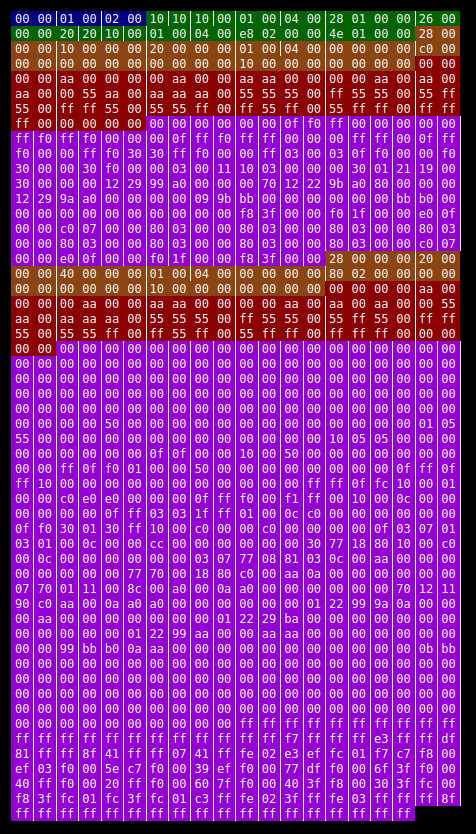
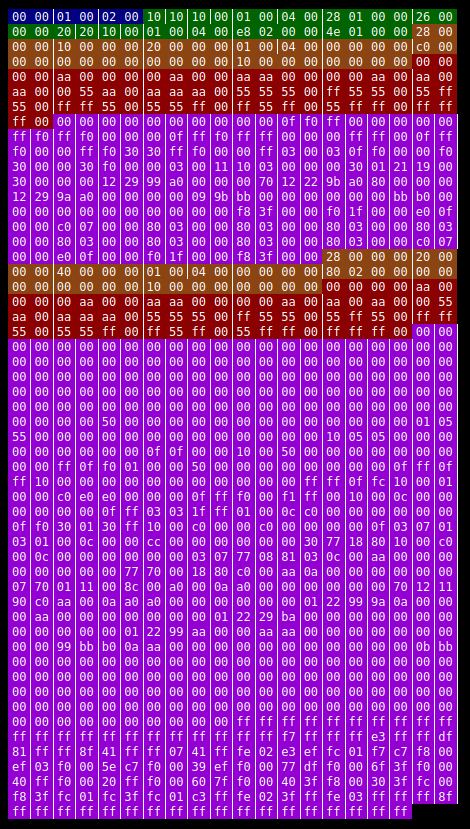
Fixed how repeats are calculated.

diff --git a/vbincarver.py b/vbincarver.py
@@ -127,7 +127,7 @@ class FileParser( object ):
             span['count_field'] in self.stored_offsets:
                 if self.stored_offsets[span['count_field']][-1] + \
                 span['count_mod'] > \
-                span['counts_written']:
+                span['counts_written'] + 1:
                     # If this is an offset, update counts written and restart
                     # if the field says we have some left.
 
